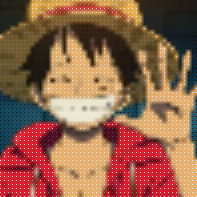
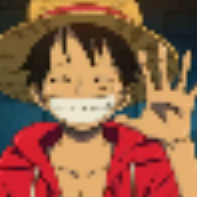
Agora acabei bilinear msm.

diff --git a/decompress.m b/decompress.m
@@ -42,7 +42,7 @@ function decompress(compressedImg, method, k, h)
         
         for i = 1:1:n
           for j = 1:1:n
-            new_R (l,c) = img(i,j);
+            new_R (l,c) = RED(i,j);
             c += k+1;
           endfor
           
@@ -57,7 +57,7 @@ function decompress(compressedImg, method, k, h)
         
         for i = 1:1:n
           for j = 1:1:n
-            new_G (l,c) = img(i,j);
+            new_G (l,c) = GREEN(i,j);
             c += k+1;
           endfor
           
@@ -72,7 +72,7 @@ function decompress(compressedImg, method, k, h)
         
         for i = 1:1:n
           for j = 1:1:n
-            new_B (l,c) = img(i,j);
+            new_B (l,c) = BLUE(i,j);
             c += k+1;
           endfor
           
